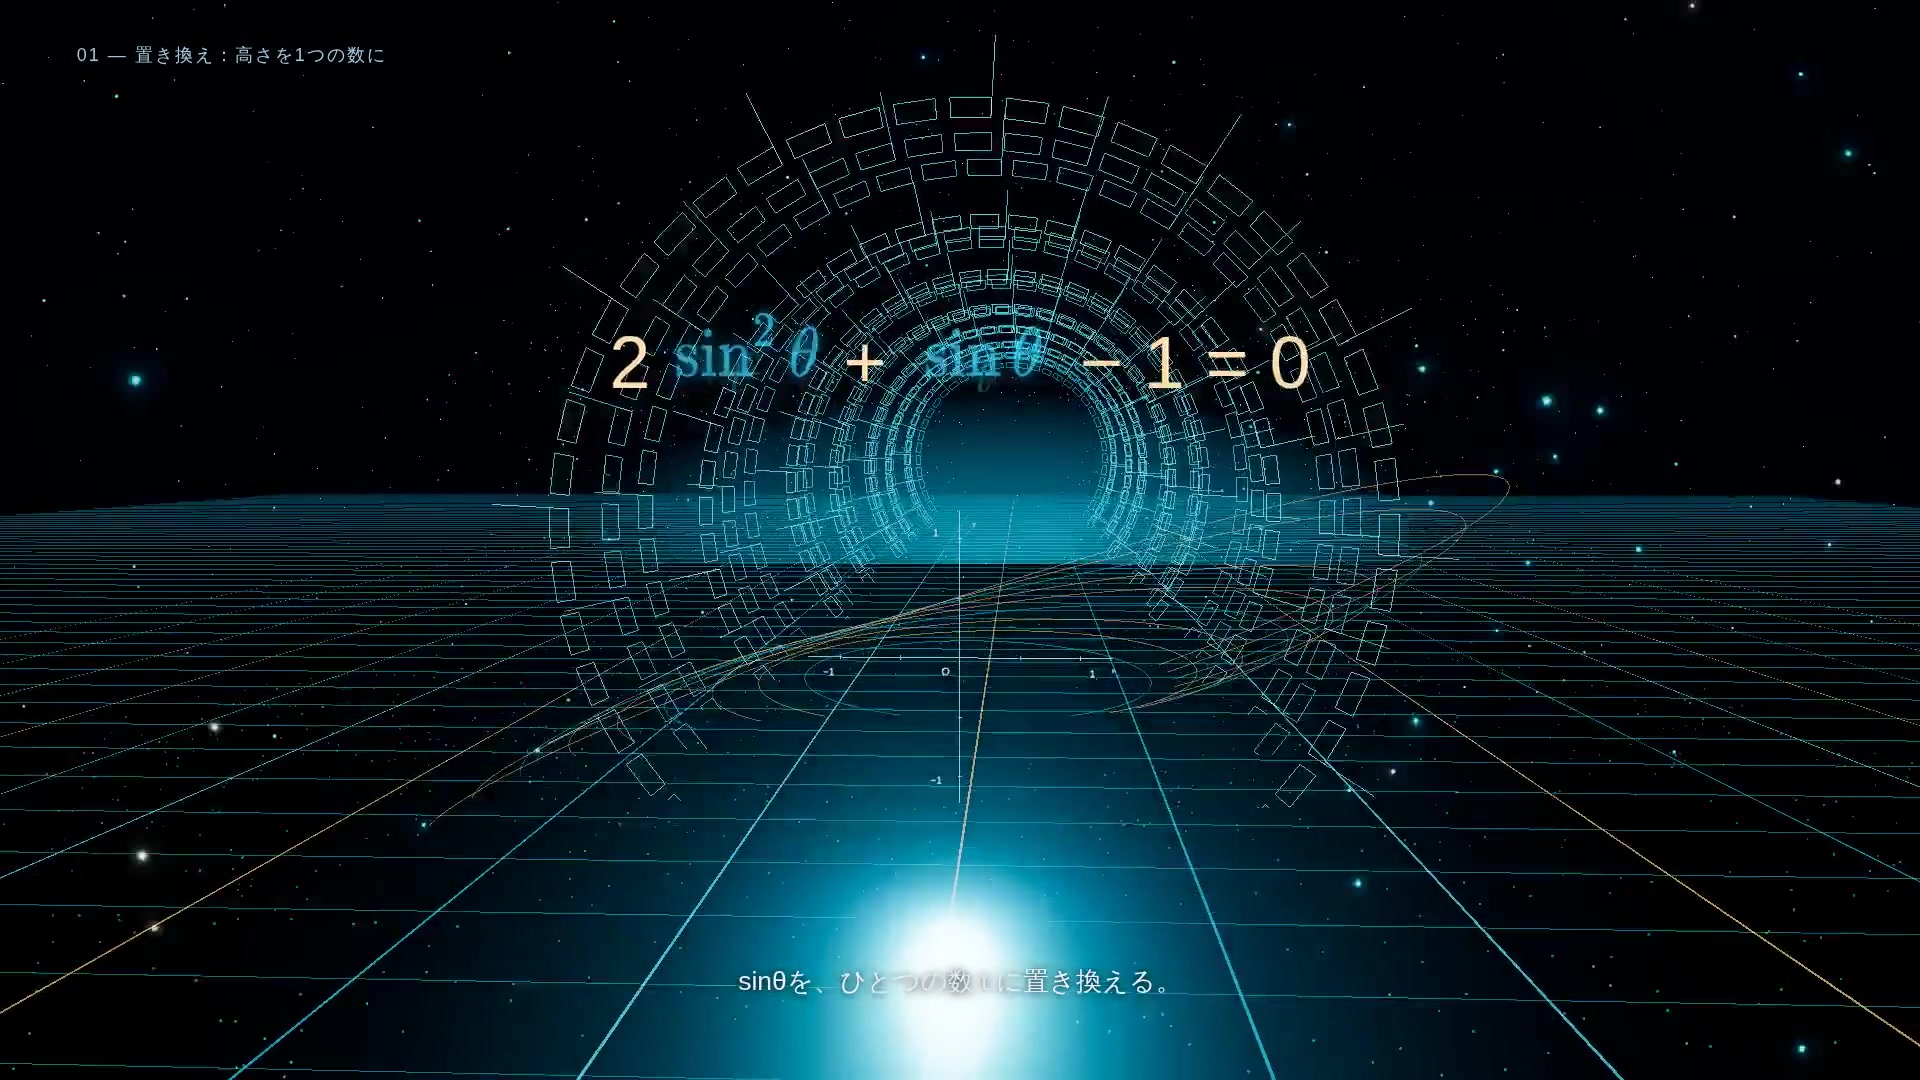
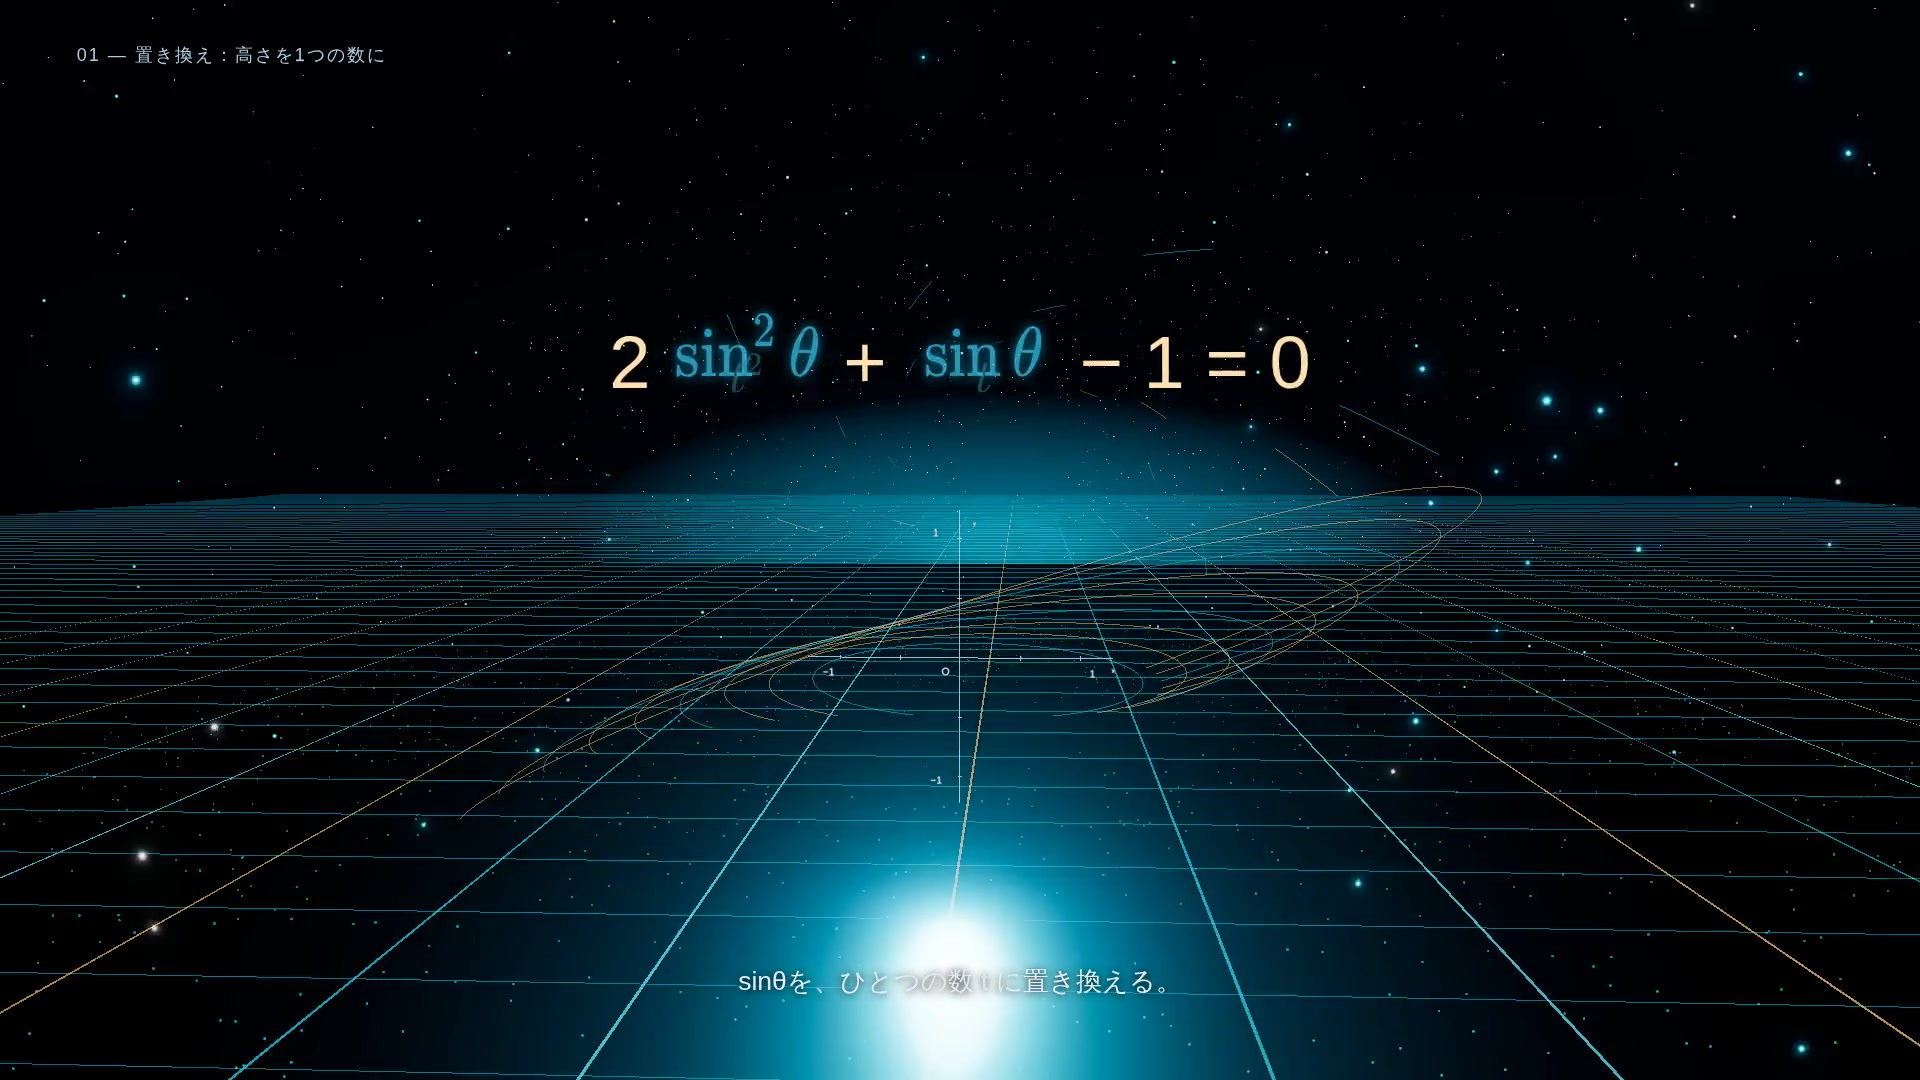
Refresh verified calm-background movies, posters and scene previews

diff --git a/materials/trig-equation-unit-circle/verification/README.md b/materials/trig-equation-unit-circle/verification/README.md
@@ -5,6 +5,6 @@
 
 `check.json` は201種類の高さと境界近傍、因数分解、解、描画座標、場面進行、PC操作、段階的解答、範囲切替を検証。`touch-fallback.json` はタッチ回転・ピンチ・WebGLなしのSVG代替を検証。390px縦、844px横、1024pxの画面を確認。
 
-`media.json` は完成ファイルのSHA-256。公開後も同じファイルであることと、動画終了から探究への切り替えをGitHub Actionsで検査する。`color-30.json` / `color-90.json` は下降する水平線を場面の最初から赤に統一したフレーム範囲。
+`media.json` は完成ファイルのSHA-256。公開後も同じファイルであることと、動画終了から探究への切り替えをGitHub Actionsで検査する。背景改訂v2では両動画を全フレーム再生成。`check.json` で背景の光跡のスケールが常に1であることと「≦」の表示も検証。
 
 未実施：実機iPhone、iPad、電子黒板、実GPUでのfps測定。モバイル相当のChromiumとタッチ模擬の検証と区別する。
